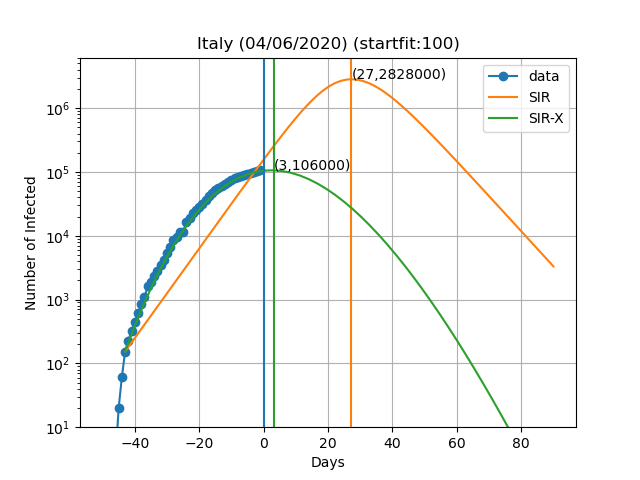
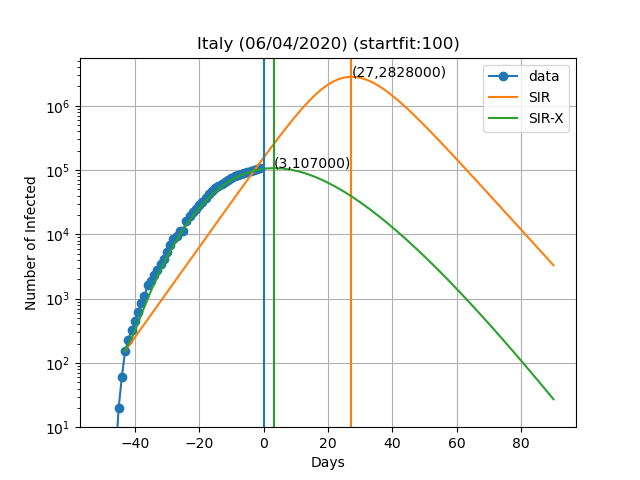
Some changes in COVID-19 text and figures

diff --git a/author/henrique-miranda.html b/author/henrique-miranda.html
@@ -29,33 +29,37 @@
                 <article>
                     <h1 class="entry-title"><a href="../covid-19.html">COVID-19</a></h1>
 <footer class="post-info">
-        <abbr class="published" title="2020-04-04T14:11:00+02:00">
-                Published: Sat 04 April 2020
+        <abbr class="published" title="2020-04-06T14:11:00+02:00">
+                Published: Mon 06 April 2020
         </abbr>
 
 
-</footer><!-- /.post-info --><p>With respect to the ongoing coronavirus pandemic a lot as has been said about imposing quarantine and social distancing measures to "flatten the curve".</p>
-<p>The curve they refer to is obtained by representing the number of people infected with the COVID-19 disease every day.
-Since the real number of infected people is not known, the number of confirmed infections is the best approximation.</p>
-<p>So how does this curve look like at the moment?
-Can we predict how it will look in the future?</p>
-<p>One way to do it is to compartment the total number of individuals in three boxes: (S)usceptible to infection, (I)nfected and (R)ecovered and use some constants to model how many people move between these compartments:</p>
+</footer><!-- /.post-info --><p>With respect to the ongoing coronavirus pandemic, a lot as has been said about imposing quarantine and social distancing measures to "flatten the curve". The curve refers to the number of people infected with the COVID-19 disease every day.
+Since the real number of infected people is unknown, using the number of confirmed infections to predict how the disease will spread, thus the curve growth, is the best approximation we have.</p>
+<p>So how does this curve look like at the moment? Can we predict how it will look in the future?</p>
+<p>One way to do this is use epidemiological compartmental models, such as the SIR model. This model compartments the total number of individuals in three boxes: (S)usceptible to infection, (I)nfected and (R)ecovered; and uses some constants to model how many people move between these compartments. The model can be summarized in the following figure.</p>
 <p><img src="../images/sir.png" style="width:80%; display: block; margin-left: auto; margin-right: auto;"></p>
-<p>For a more detailed explanation read the Wikipedia page <a href="https://en.wikipedia.org/wiki/Compartmental_models_in_epidemiology#The_SIR_model">here</a></p>
-<p>Using the SIR model for the ongoing corona virus outbreak tends to overestimate the number of infected over time. That is because this model does not account for the quarantine. This does not even need to be a generalized quarantine, as long as the people that are known to be infected self-isolate. Hence the moto of the WHO to "Test, test, test".
-A model that accounts for the quarantine is represented schematically here:</p>
+<p>For a more detailed explanation about the SIR model, you can read the Wikipedia page <a href="https://en.wikipedia.org/wiki/Compartmental_models_in_epidemiology#The_SIR_model">here</a></p>
+<p>The SIR model for the ongoing corona virus outbreak tends to overestimate the number of infected over time. That is because this model does not account for the effects of quarantine. It doesn't need to be a generalized quarantine, as long as the people that are known to be infected are isolated from the rest of the population. Hence the moto of the WHO to "Test, test and test" for if you test you can isolate the infected and reduce the spread of the disease.
+A model that accounts for the quarantine is represented schematically in the following figure.</p>
 <p><img src="../images/sirx.png" style="width:80%; display: block; margin-left: auto; margin-right: auto;"></p>
-<p>I first read about this model <a href="http://rocs.hu-berlin.de/corona/docs/forecast/model/">here</a>.
-They provide their own fit to the number of confirmed cases data from the Johns Hopkins University available <a href="https://github.com/CSSEGISandData/COVID-19">here</a>.
-I wanted to see how these curves look like beyond the point where it is shown in the fits so I did my own python implementation of it.
-Here are the fits for Portugal, Austria, Italy and US:
+<p>Where X is the number of people put in quaratine after being infected.
+I first read about this model <a href="http://rocs.hu-berlin.de/corona/docs/forecast/model/">here</a>. I modified it slightly by adding the connection in red (I will explain the reason below).
+They provide their own fit to the number of confirmed cases, using the data from the Johns Hopkins University available <a href="https://github.com/CSSEGISandData/COVID-19">here</a>.
+I wanted to plot the curves of infected people beyond the point where it is shown in their <a href="http://rocs.hu-berlin.de/corona/docs/forecast/results_by_country/">fits</a> so I did my own python implementation of the SIR-X model.
+Here are the plots and fits for Portugal, Austria, Italy and US:
 <img alt="portugal_model" src="../images/portugal.png">
 <img alt="austria_model" src="../images/austria.png">
 <img alt="italy_model" src="../images/italy.png">
 <img alt="us_model" src="../images/us.png"></p>
-<p>The final result depends very sensively on the day at which you start to solve the differential equations (startfit). In the plots represented above I choose different days for the different countries.
+<p>The vertical blue curve represents the day of today (06/04/2020).
+The blue dots are obtained by subtracting the number of recovered to the number of confirmed cases.
+In the SIR-X model the number of infected is obtained by adding X and I provided that the modification in red is present.
+The final result depends very sensively on the day at which you start to solve the differential equations (startfit). In the plots represented above I choose different days for the different countries.
 The code to generate these graphs is available <a href="https://github.com/jmpcm/covid19/blob/master/get_sirx.py">here</a></p>
-<p>WARNING: I am by no means a specialist in these type of models or how to solve them. This data is meant for illustrative purposes only. I cannot exclude the possibility of a systematic error in the scripts and all the results shown here being wrong. If you do find such error please let me know so I can fix it. The real <a href="http://rocs.hu-berlin.de/corona/docs/forecast/results_by_country/">experts</a> dont't risk making predictions of more than 7 days and the reason is that they tend to be wrong as time passes. In this work I fit all the variables of the model simultaneously, while the original authors fit only the new variables introduced in the SIR-X model with respect to the SIR.</p>                </article>
+<p>WARNING: I am by no means a specialist in these type of models or how to solve them. This data is meant for illustrative purposes only. I cannot exclude the possibility of a systematic error in the scripts and all the results shown here being wrong. If you do find such error please let me know so I can fix it.
+The real <a href="http://rocs.hu-berlin.de/corona/docs/forecast/results_by_country/">experts</a> dont't risk making predictions of more than 7 days and the reason is that they tend to be wrong as time passes. In this work I fit all the variables of the model simultaneously, while the original authors fit only the new variables introduced in the SIR-X model with respect to the SIR.</p>
+<p>I would like to thank <a href="https://github.com/jmpcm">jmpcm</a> for giving feedback on this text.</p>                </article>
             </aside><!-- /#featured -->
                 <section id="content" class="body">
                     <h1>Other articles</h1>

diff --git a/category/others.html b/category/others.html
@@ -29,33 +29,37 @@
                 <article>
                     <h1 class="entry-title"><a href="../covid-19.html">COVID-19</a></h1>
 <footer class="post-info">
-        <abbr class="published" title="2020-04-04T14:11:00+02:00">
-                Published: Sat 04 April 2020
+        <abbr class="published" title="2020-04-06T14:11:00+02:00">
+                Published: Mon 06 April 2020
         </abbr>
 
 
-</footer><!-- /.post-info --><p>With respect to the ongoing coronavirus pandemic a lot as has been said about imposing quarantine and social distancing measures to "flatten the curve".</p>
-<p>The curve they refer to is obtained by representing the number of people infected with the COVID-19 disease every day.
-Since the real number of infected people is not known, the number of confirmed infections is the best approximation.</p>
-<p>So how does this curve look like at the moment?
-Can we predict how it will look in the future?</p>
-<p>One way to do it is to compartment the total number of individuals in three boxes: (S)usceptible to infection, (I)nfected and (R)ecovered and use some constants to model how many people move between these compartments:</p>
+</footer><!-- /.post-info --><p>With respect to the ongoing coronavirus pandemic, a lot as has been said about imposing quarantine and social distancing measures to "flatten the curve". The curve refers to the number of people infected with the COVID-19 disease every day.
+Since the real number of infected people is unknown, using the number of confirmed infections to predict how the disease will spread, thus the curve growth, is the best approximation we have.</p>
+<p>So how does this curve look like at the moment? Can we predict how it will look in the future?</p>
+<p>One way to do this is use epidemiological compartmental models, such as the SIR model. This model compartments the total number of individuals in three boxes: (S)usceptible to infection, (I)nfected and (R)ecovered; and uses some constants to model how many people move between these compartments. The model can be summarized in the following figure.</p>
 <p><img src="../images/sir.png" style="width:80%; display: block; margin-left: auto; margin-right: auto;"></p>
-<p>For a more detailed explanation read the Wikipedia page <a href="https://en.wikipedia.org/wiki/Compartmental_models_in_epidemiology#The_SIR_model">here</a></p>
-<p>Using the SIR model for the ongoing corona virus outbreak tends to overestimate the number of infected over time. That is because this model does not account for the quarantine. This does not even need to be a generalized quarantine, as long as the people that are known to be infected self-isolate. Hence the moto of the WHO to "Test, test, test".
-A model that accounts for the quarantine is represented schematically here:</p>
+<p>For a more detailed explanation about the SIR model, you can read the Wikipedia page <a href="https://en.wikipedia.org/wiki/Compartmental_models_in_epidemiology#The_SIR_model">here</a></p>
+<p>The SIR model for the ongoing corona virus outbreak tends to overestimate the number of infected over time. That is because this model does not account for the effects of quarantine. It doesn't need to be a generalized quarantine, as long as the people that are known to be infected are isolated from the rest of the population. Hence the moto of the WHO to "Test, test and test" for if you test you can isolate the infected and reduce the spread of the disease.
+A model that accounts for the quarantine is represented schematically in the following figure.</p>
 <p><img src="../images/sirx.png" style="width:80%; display: block; margin-left: auto; margin-right: auto;"></p>
-<p>I first read about this model <a href="http://rocs.hu-berlin.de/corona/docs/forecast/model/">here</a>.
-They provide their own fit to the number of confirmed cases data from the Johns Hopkins University available <a href="https://github.com/CSSEGISandData/COVID-19">here</a>.
-I wanted to see how these curves look like beyond the point where it is shown in the fits so I did my own python implementation of it.
-Here are the fits for Portugal, Austria, Italy and US:
+<p>Where X is the number of people put in quaratine after being infected.
+I first read about this model <a href="http://rocs.hu-berlin.de/corona/docs/forecast/model/">here</a>. I modified it slightly by adding the connection in red (I will explain the reason below).
+They provide their own fit to the number of confirmed cases, using the data from the Johns Hopkins University available <a href="https://github.com/CSSEGISandData/COVID-19">here</a>.
+I wanted to plot the curves of infected people beyond the point where it is shown in their <a href="http://rocs.hu-berlin.de/corona/docs/forecast/results_by_country/">fits</a> so I did my own python implementation of the SIR-X model.
+Here are the plots and fits for Portugal, Austria, Italy and US:
 <img alt="portugal_model" src="../images/portugal.png">
 <img alt="austria_model" src="../images/austria.png">
 <img alt="italy_model" src="../images/italy.png">
 <img alt="us_model" src="../images/us.png"></p>
-<p>The final result depends very sensively on the day at which you start to solve the differential equations (startfit). In the plots represented above I choose different days for the different countries.
+<p>The vertical blue curve represents the day of today (06/04/2020).
+The blue dots are obtained by subtracting the number of recovered to the number of confirmed cases.
+In the SIR-X model the number of infected is obtained by adding X and I provided that the modification in red is present.
+The final result depends very sensively on the day at which you start to solve the differential equations (startfit). In the plots represented above I choose different days for the different countries.
 The code to generate these graphs is available <a href="https://github.com/jmpcm/covid19/blob/master/get_sirx.py">here</a></p>
-<p>WARNING: I am by no means a specialist in these type of models or how to solve them. This data is meant for illustrative purposes only. I cannot exclude the possibility of a systematic error in the scripts and all the results shown here being wrong. If you do find such error please let me know so I can fix it. The real <a href="http://rocs.hu-berlin.de/corona/docs/forecast/results_by_country/">experts</a> dont't risk making predictions of more than 7 days and the reason is that they tend to be wrong as time passes. In this work I fit all the variables of the model simultaneously, while the original authors fit only the new variables introduced in the SIR-X model with respect to the SIR.</p>                </article>
+<p>WARNING: I am by no means a specialist in these type of models or how to solve them. This data is meant for illustrative purposes only. I cannot exclude the possibility of a systematic error in the scripts and all the results shown here being wrong. If you do find such error please let me know so I can fix it.
+The real <a href="http://rocs.hu-berlin.de/corona/docs/forecast/results_by_country/">experts</a> dont't risk making predictions of more than 7 days and the reason is that they tend to be wrong as time passes. In this work I fit all the variables of the model simultaneously, while the original authors fit only the new variables introduced in the SIR-X model with respect to the SIR.</p>
+<p>I would like to thank <a href="https://github.com/jmpcm">jmpcm</a> for giving feedback on this text.</p>                </article>
             </aside><!-- /#featured -->
         <section id="extras" class="body">
         </section><!-- /#extras -->

diff --git a/covid-19.html b/covid-19.html
@@ -34,33 +34,37 @@
 
     <div class="entry-content">
 <footer class="post-info">
-        <abbr class="published" title="2020-04-04T14:11:00+02:00">
-                Published: Sat 04 April 2020
+        <abbr class="published" title="2020-04-06T14:11:00+02:00">
+                Published: Mon 06 April 2020
         </abbr>
 
 
-</footer><!-- /.post-info -->      <p>With respect to the ongoing coronavirus pandemic a lot as has been said about imposing quarantine and social distancing measures to "flatten the curve".</p>
-<p>The curve they refer to is obtained by representing the number of people infected with the COVID-19 disease every day.
-Since the real number of infected people is not known, the number of confirmed infections is the best approximation.</p>
-<p>So how does this curve look like at the moment?
-Can we predict how it will look in the future?</p>
-<p>One way to do it is to compartment the total number of individuals in three boxes: (S)usceptible to infection, (I)nfected and (R)ecovered and use some constants to model how many people move between these compartments:</p>
+</footer><!-- /.post-info -->      <p>With respect to the ongoing coronavirus pandemic, a lot as has been said about imposing quarantine and social distancing measures to "flatten the curve". The curve refers to the number of people infected with the COVID-19 disease every day.
+Since the real number of infected people is unknown, using the number of confirmed infections to predict how the disease will spread, thus the curve growth, is the best approximation we have.</p>
+<p>So how does this curve look like at the moment? Can we predict how it will look in the future?</p>
+<p>One way to do this is use epidemiological compartmental models, such as the SIR model. This model compartments the total number of individuals in three boxes: (S)usceptible to infection, (I)nfected and (R)ecovered; and uses some constants to model how many people move between these compartments. The model can be summarized in the following figure.</p>
 <p><img src="./images/sir.png" style="width:80%; display: block; margin-left: auto; margin-right: auto;"></p>
-<p>For a more detailed explanation read the Wikipedia page <a href="https://en.wikipedia.org/wiki/Compartmental_models_in_epidemiology#The_SIR_model">here</a></p>
-<p>Using the SIR model for the ongoing corona virus outbreak tends to overestimate the number of infected over time. That is because this model does not account for the quarantine. This does not even need to be a generalized quarantine, as long as the people that are known to be infected self-isolate. Hence the moto of the WHO to "Test, test, test".
-A model that accounts for the quarantine is represented schematically here:</p>
+<p>For a more detailed explanation about the SIR model, you can read the Wikipedia page <a href="https://en.wikipedia.org/wiki/Compartmental_models_in_epidemiology#The_SIR_model">here</a></p>
+<p>The SIR model for the ongoing corona virus outbreak tends to overestimate the number of infected over time. That is because this model does not account for the effects of quarantine. It doesn't need to be a generalized quarantine, as long as the people that are known to be infected are isolated from the rest of the population. Hence the moto of the WHO to "Test, test and test" for if you test you can isolate the infected and reduce the spread of the disease.
+A model that accounts for the quarantine is represented schematically in the following figure.</p>
 <p><img src="./images/sirx.png" style="width:80%; display: block; margin-left: auto; margin-right: auto;"></p>
-<p>I first read about this model <a href="http://rocs.hu-berlin.de/corona/docs/forecast/model/">here</a>.
-They provide their own fit to the number of confirmed cases data from the Johns Hopkins University available <a href="https://github.com/CSSEGISandData/COVID-19">here</a>.
-I wanted to see how these curves look like beyond the point where it is shown in the fits so I did my own python implementation of it.
-Here are the fits for Portugal, Austria, Italy and US:
+<p>Where X is the number of people put in quaratine after being infected.
+I first read about this model <a href="http://rocs.hu-berlin.de/corona/docs/forecast/model/">here</a>. I modified it slightly by adding the connection in red (I will explain the reason below).
+They provide their own fit to the number of confirmed cases, using the data from the Johns Hopkins University available <a href="https://github.com/CSSEGISandData/COVID-19">here</a>.
+I wanted to plot the curves of infected people beyond the point where it is shown in their <a href="http://rocs.hu-berlin.de/corona/docs/forecast/results_by_country/">fits</a> so I did my own python implementation of the SIR-X model.
+Here are the plots and fits for Portugal, Austria, Italy and US:
 <img alt="portugal_model" src="./images/portugal.png">
 <img alt="austria_model" src="./images/austria.png">
 <img alt="italy_model" src="./images/italy.png">
 <img alt="us_model" src="./images/us.png"></p>
-<p>The final result depends very sensively on the day at which you start to solve the differential equations (startfit). In the plots represented above I choose different days for the different countries.
+<p>The vertical blue curve represents the day of today (06/04/2020).
+The blue dots are obtained by subtracting the number of recovered to the number of confirmed cases.
+In the SIR-X model the number of infected is obtained by adding X and I provided that the modification in red is present.
+The final result depends very sensively on the day at which you start to solve the differential equations (startfit). In the plots represented above I choose different days for the different countries.
 The code to generate these graphs is available <a href="https://github.com/jmpcm/covid19/blob/master/get_sirx.py">here</a></p>
-<p>WARNING: I am by no means a specialist in these type of models or how to solve them. This data is meant for illustrative purposes only. I cannot exclude the possibility of a systematic error in the scripts and all the results shown here being wrong. If you do find such error please let me know so I can fix it. The real <a href="http://rocs.hu-berlin.de/corona/docs/forecast/results_by_country/">experts</a> dont't risk making predictions of more than 7 days and the reason is that they tend to be wrong as time passes. In this work I fit all the variables of the model simultaneously, while the original authors fit only the new variables introduced in the SIR-X model with respect to the SIR.</p>
+<p>WARNING: I am by no means a specialist in these type of models or how to solve them. This data is meant for illustrative purposes only. I cannot exclude the possibility of a systematic error in the scripts and all the results shown here being wrong. If you do find such error please let me know so I can fix it.
+The real <a href="http://rocs.hu-berlin.de/corona/docs/forecast/results_by_country/">experts</a> dont't risk making predictions of more than 7 days and the reason is that they tend to be wrong as time passes. In this work I fit all the variables of the model simultaneously, while the original authors fit only the new variables introduced in the SIR-X model with respect to the SIR.</p>
+<p>I would like to thank <a href="https://github.com/jmpcm">jmpcm</a> for giving feedback on this text.</p>
     </div><!-- /.entry-content -->
 
   </article>

diff --git a/archives.html b/archives.html
@@ -28,7 +28,7 @@
 <h1>Archives for Henrique Miranda</h1>
 
 <dl>
-    <dt>Sat 04 April 2020</dt>
+    <dt>Mon 06 April 2020</dt>
     <dd><a href="./covid-19.html">COVID-19</a></dd>
     <dt>Wed 19 April 2017</dt>
     <dd><a href="./docker-containers.html">Docker containers</a></dd>

diff --git a/pelican/content/covid19.md b/pelican/content/covid19.md
@@ -1,36 +1,40 @@
 Title: COVID-19
-Date: 2020-04-04 14:11
+Date: 2020-04-06 14:11
 Category: Others
 
-With respect to the ongoing coronavirus pandemic a lot as has been said about imposing quarantine and social distancing measures to "flatten the curve".
+With respect to the ongoing coronavirus pandemic, a lot as has been said about imposing quarantine and social distancing measures to "flatten the curve". The curve refers to the number of people infected with the COVID-19 disease every day.
+Since the real number of infected people is unknown, using the number of confirmed infections to predict how the disease will spread, thus the curve growth, is the best approximation we have.
 
-The curve they refer to is obtained by representing the number of people infected with the COVID-19 disease every day.
-Since the real number of infected people is not known, the number of confirmed infections is the best approximation.
+So how does this curve look like at the moment? Can we predict how it will look in the future?
 
-So how does this curve look like at the moment?
-Can we predict how it will look in the future?
-
-One way to do it is to compartment the total number of individuals in three boxes: (S)usceptible to infection, (I)nfected and (R)ecovered and use some constants to model how many people move between these compartments:
+One way to do this is use epidemiological compartmental models, such as the SIR model. This model compartments the total number of individuals in three boxes: (S)usceptible to infection, (I)nfected and (R)ecovered; and uses some constants to model how many people move between these compartments. The model can be summarized in the following figure.
 
 <img src="{static}/images/sir.png" style="width:80%; display: block; margin-left: auto; margin-right: auto;">
 
-For a more detailed explanation read the Wikipedia page [here](https://en.wikipedia.org/wiki/Compartmental_models_in_epidemiology#The_SIR_model)
+For a more detailed explanation about the SIR model, you can read the Wikipedia page [here](https://en.wikipedia.org/wiki/Compartmental_models_in_epidemiology#The_SIR_model)
 
-Using the SIR model for the ongoing corona virus outbreak tends to overestimate the number of infected over time. That is because this model does not account for the quarantine. This does not even need to be a generalized quarantine, as long as the people that are known to be infected self-isolate. Hence the moto of the WHO to "Test, test, test".
-A model that accounts for the quarantine is represented schematically here:
+The SIR model for the ongoing corona virus outbreak tends to overestimate the number of infected over time. That is because this model does not account for the effects of quarantine. It doesn't need to be a generalized quarantine, as long as the people that are known to be infected are isolated from the rest of the population. Hence the moto of the WHO to "Test, test and test" for if you test you can isolate the infected and reduce the spread of the disease.
+A model that accounts for the quarantine is represented schematically in the following figure.
 
 <img src="{static}/images/sirx.png" style="width:80%; display: block; margin-left: auto; margin-right: auto;">
 
-I first read about this model [here](http://rocs.hu-berlin.de/corona/docs/forecast/model/).
-They provide their own fit to the number of confirmed cases data from the Johns Hopkins University available [here](https://github.com/CSSEGISandData/COVID-19).
-I wanted to see how these curves look like beyond the point where it is shown in the fits so I did my own python implementation of it.
-Here are the fits for Portugal, Austria, Italy and US:
+Where X is the number of people put in quaratine after being infected.
+I first read about this model [here](http://rocs.hu-berlin.de/corona/docs/forecast/model/). I modified it slightly by adding the connection in red (I will explain the reason below).
+They provide their own fit to the number of confirmed cases, using the data from the Johns Hopkins University available [here](https://github.com/CSSEGISandData/COVID-19).
+I wanted to plot the curves of infected people beyond the point where it is shown in their [fits](http://rocs.hu-berlin.de/corona/docs/forecast/results_by_country/) so I did my own python implementation of the SIR-X model.
+Here are the plots and fits for Portugal, Austria, Italy and US:
 ![portugal_model]({static}/images/portugal.png)
 ![austria_model]({static}/images/austria.png)
 ![italy_model]({static}/images/italy.png)
 ![us_model]({static}/images/us.png)
 
-The final result depends very sensively on the day at which you start to solve the differential equations (startfit). In the plots represented above I choose different days for the different countries.
+The vertical blue curve represents the day of today (06/04/2020).
+The blue dots are obtained by subtracting the number of recovered to the number of confirmed cases.
+In the SIR-X model the number of infected is obtained by adding X and I provided that the modification in red is present.
+The final result depends very sensively on the day at which you start to solve the differential equations (startfit). I choose different days for the different countries.
 The code to generate these graphs is available [here](https://github.com/jmpcm/covid19/blob/master/get_sirx.py)
 
-WARNING: I am by no means a specialist in these type of models or how to solve them. This data is meant for illustrative purposes only. I cannot exclude the possibility of a systematic error in the scripts and all the results shown here being wrong. If you do find such error please let me know so I can fix it. The real [experts](http://rocs.hu-berlin.de/corona/docs/forecast/results_by_country/) dont't risk making predictions of more than 7 days and the reason is that they tend to be wrong as time passes. In this work I fit all the variables of the model simultaneously, while the original authors fit only the new variables introduced in the SIR-X model with respect to the SIR.
+WARNING: I am by no means a specialist in these type of models or how to solve them. This data is meant for illustrative purposes only. I cannot exclude the possibility of a systematic error in the scripts and all the results shown here being wrong. If you do find such error please let me know so I can fix it.
+The real [experts](http://rocs.hu-berlin.de/corona/docs/forecast/results_by_country/) dont't risk making predictions of more than 7 days and the reason is that they tend to be wrong as time passes. In this work I fit all the variables of the model simultaneously, while the original authors fit only the new variables introduced in the SIR-X model with respect to the SIR.
+
+I would like to thank [jmpcm](https://github.com/jmpcm) for giving feedback on this text.
